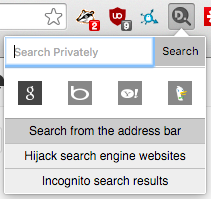
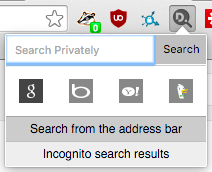
remove search engine website hijacking

diff --git a/src/js/background.js b/src/js/background.js
@@ -3,7 +3,6 @@ var extension_identifier = "&discord=true"; //change to "" to evade detection
 var settings = {};
 chrome.storage.sync.get({
 		"search_from_omnibox": false,
-		"hijack_search_engine_websites": false,
 		"incognito_search_results": false,
 		"search_engine": "Google"
 	}, function(items) { settings = items; });
@@ -21,31 +20,26 @@ function get_hostname(url) {
 String.prototype.contains = function(it) { return this.indexOf(it) != -1; };
 
 function hijack_omnibox_search(details) {
-  if (!settings["search_from_omnibox"] && !settings["hijack_search_engine_websites"]) return { cancel: false };
+  if (settings["search_from_omnibox"]) {
+    var url = details.url;
+    var google = get_hostname(url).contains(".google.")
 
-	var url = details.url;
-	var google = get_hostname(url).contains(".google.")
-	
-	var block = url.contains("/s?") || url.contains("/complete/search?") || url.contains("sourceid=chrome-instant");
-	if(block) {
-		console.log("blocked: " + url);
-		return { cancel: true };
-	}
-	var match = /[?|&]q=(.*?)(&|$)/.exec(url);
-	var query_found = match !== null && match.length > 1 && match[1].trim() !== "";
-	var search_from_omnibox = url.contains("es_sm=");
-	var search_from_page = url.contains("/search?");
-	var proxy =
-		(settings["search_from_omnibox"] && search_from_omnibox) ||
-		(settings["hijack_search_engine_websites"] && search_from_page && !search_from_omnibox);
+    var block = google && (url.contains("/s?") || url.contains("/complete/search?") || url.contains("sourceid=chrome-instant"));
+    if(block) {
+      console.log("blocked: " + url);
+      return { cancel: true };
+    }
+    var match = /[?|&]q=(.*?)(&|$)/.exec(url);
+    var query_found = match !== null && match.length > 1 && match[1].trim() !== "";
+    var search_from_omnibox = url.contains("es_sm=");
 
-	if (google && query_found && proxy) {
-		var search_url = build_search_url(match[1], settings["search_engine"]);
-		console.log("redirected: " + url + " -> " + search_url);
-		return { redirectUrl:  search_url };
-	}
-
-	return { cancel: false };
+    if (google && query_found && search_from_omnibox) {
+      var search_url = build_search_url(match[1].trim(), settings["search_engine"]);
+      console.log("redirected: " + url + " -> " + search_url);
+      return { redirectUrl:  search_url };
+    }
+  }
+  return { cancel: false };
 }
 
 function handle_message(request, sender, sendResponse) {

diff --git a/src/popup.html b/src/popup.html
@@ -35,10 +35,6 @@
 				<span class="settings_text">Search from the address bar</span>
 			</label></li>
 			<li><label>
-				<input type="checkbox" name="settings" value="hijack_search_engine_websites">
-				<span class="settings_text">Hijack search engine websites</span>
-			</label></li>
-			<li><label>
 				<input type="checkbox" name="settings" value="incognito_search_results">
 				<span class="settings_text">Incognito search results</span>
 			</label></li>

diff --git a/src/js/popup.js b/src/js/popup.js
@@ -20,7 +20,6 @@ function apply_settings(items) {
 var settings = {};
 chrome.storage.sync.get({
 		"search_from_omnibox": false,
-		"hijack_search_engine_websites": false,
 		"incognito_search_results": false,
 		"search_engine": "Google"
 	}, apply_settings);
